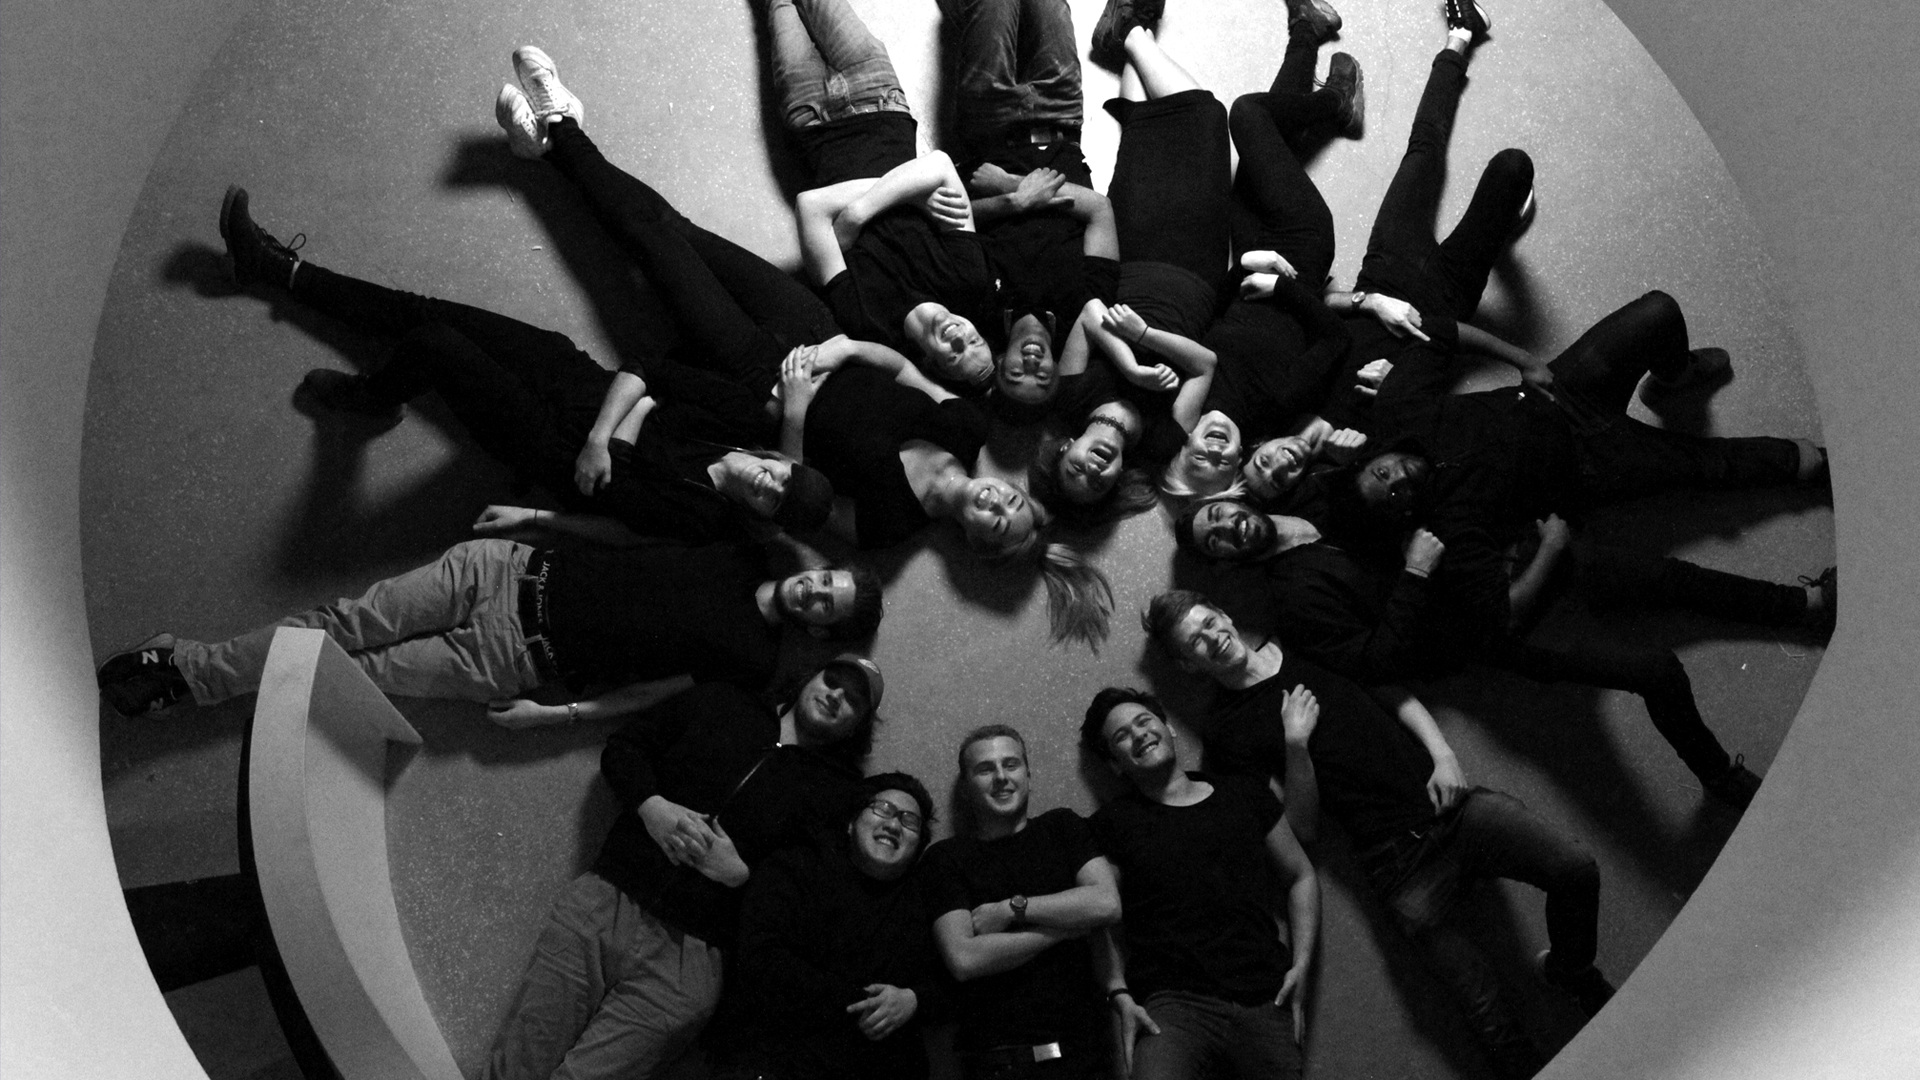
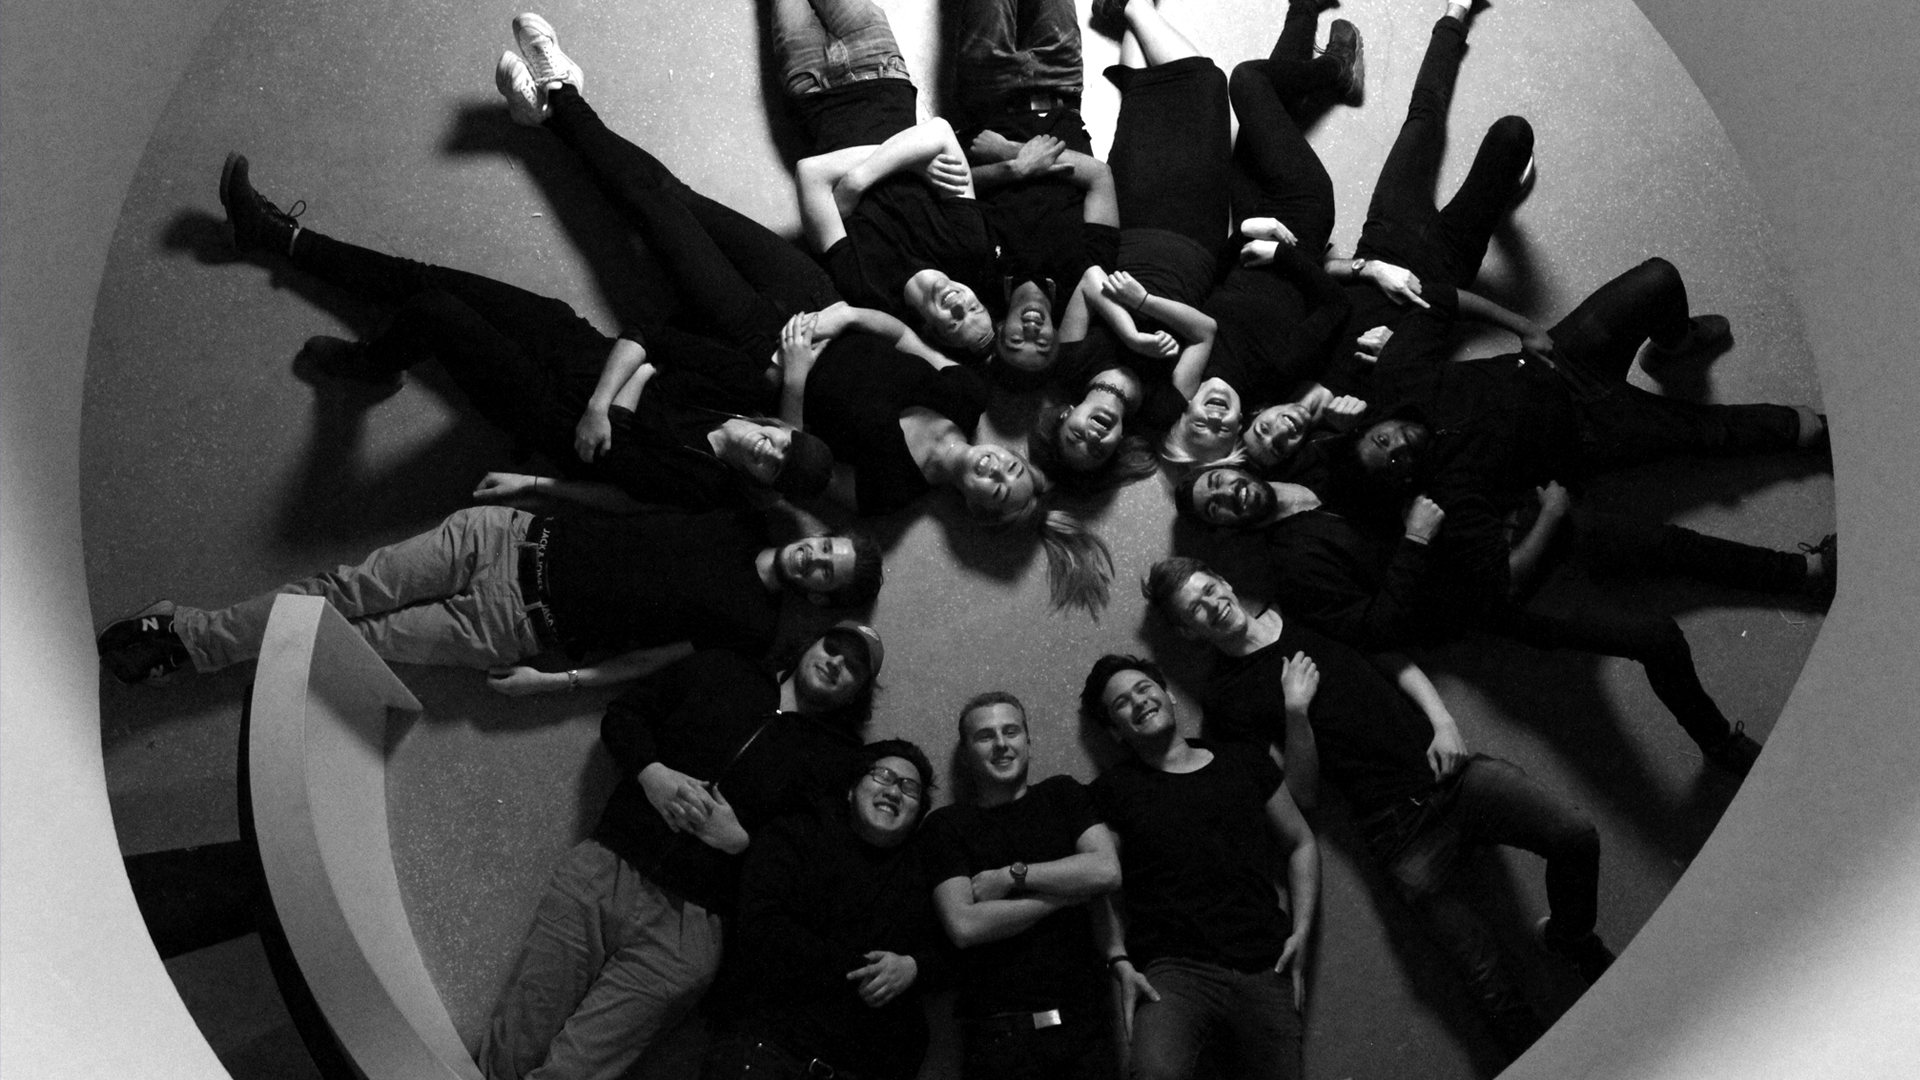
Fix header

diff --git a/public/css/common.min.css b/public/css/common.min.css
@@ -1,2 +1,2 @@
-html{min-height:100%;position:relative}body{margin-bottom:270px}@media (max-width:991px){body{margin-bottom:0}}body.navbar-padding{padding-top:50px}.page-container.container{padding-top:30px;padding-bottom:30px}.platoon-brandify,nav.navbar-site .navbar-nav>li.active>a:hover{color:#fff}.platoon-brandify .c{color:orange;font-style:normal}.platoon-brandify .p{font-style:normal;color:green}li.no-style,ul.no-style{list-style:none;padding-left:0}.btn-primary{border:1px solid #337ab7;color:#337ab7;background-color:transparent}.btn-primary:hover{color:#fff;background-color:#337ab7}.btn-primary:focus{outline:none!important}.btn-danger,.btn-primary[disabled]{background-color:transparent}.btn-danger{border:1px solid #d43f3a;color:#d43f3a}.btn-danger:hover{color:#fff;background-color:#d43f3a}.btn-danger:focus{outline:none!important}.btn-danger[disabled]{background-color:transparent}footer.footer-site{width:100%;position:absolute;bottom:0}@media (max-width:991px){footer.footer-site{position:relative}}.footer-site{color:#8c8c8c;background-color:#333;font-weight:300}.footer-site .container{padding:10px 20px;background-color:#333}.footer-site h4{font-weight:inherit}.footer-site a{color:gray;transition:color .1s}.footer-site a:hover{color:#206ad2;text-decoration:none}.footer-site ul.fa-ul{padding-left:-20px}.footer-site.footer-site-top{height:230px}.footer-site.footer-site-top .container{min-height:100%}@media (max-width:991px){.footer-site.footer-site-top{height:auto}}.footer-site.footer-site-copy{color:#666;text-align:center}.footer-site .container+hr,.footer-site.footer-site-copy p{margin:0}.footer-site hr+.container>.row{margin-top:5px;margin-bottom:5px}header.site-header{background:url(/img/header/yt-dj.jpg) center no-repeat;background-size:cover;height:500px}@media (max-width:767px){header.site-header{height:200px}}nav.navbar-site{background:#333;transition:background .2s}nav.navbar-site .navbar-toggle{border:1px solid rgba(255,255,255,.5)}nav.navbar-site .navbar-toggle .icon-bar{background:rgba(255,255,255,.5)}nav.navbar-site .navbar-brand img{height:40px;margin-top:-10px}nav.navbar-site .navbar-nav>li img{height:19px;vertical-align:top}nav.navbar-site .navbar-nav>li.active{background:#404040}nav.navbar-site .navbar-nav>li>a{color:#fff;transition:color .1s}nav.navbar-site .navbar-nav>li>a:hover{color:#206ad2;background:0 0}nav.navbar-site .navbar-nav>li>a:link,nav.navbar-site.navbar-site-scrolled{background:0 0}.platoon-rating-container{height:100px}.platoon-rating-container .platoon-rating .stars{color:gold}.platoon-rating-container .platoon-rating .stars .faded{color:rgba(255,215,0,.4)}.page-index-mvp h4,.site-about-member p,.site-about-prospect p{margin-bottom:0}.site-about-member h3,.site-about-prospect h3{margin:0 0 5px}.site-about-member .info,.site-about-prospect .info{margin-bottom:10px}.site-about-prospect img{width:100%}.site-about-member img{width:150px}@media (max-width:767px){.site-about-member img{width:80px}.site-about-member h3,.site-about-prospect h3{font-size:1em}.site-about-member .info,.site-about-prospect .info{font-size:.8em;margin-bottom:0}}.page-members h3{margin-top:0;margin-bottom:10px}.top-buffer{margin-top:40px}.input-group.time .input-group-addon{cursor:pointer}.panel-faq{transition:box-shadow .3s}a .panel-faq{color:#000}.panel-faq:hover{box-shadow:0 0 5px 0 rgba(0,0,0,.2)}.faq-link:hover{text-decoration:none}.ng-cloak,.x-ng-cloak,[data-ng-cloak],[ng-cloak],[ng\:cloak],[x-ng-cloak]{display:none!important}
+html{min-height:100%;position:relative}body{margin-bottom:270px}@media (max-width:991px){body{margin-bottom:0}}body.navbar-padding{padding-top:50px}.page-container.container{padding-top:30px;padding-bottom:30px}.platoon-brandify,nav.navbar-site .navbar-nav>li.active>a:hover{color:#fff}.platoon-brandify .c{color:orange;font-style:normal}.platoon-brandify .p{font-style:normal;color:green}li.no-style,ul.no-style{list-style:none;padding-left:0}.btn-primary{border:1px solid #337ab7;color:#337ab7;background-color:transparent}.btn-primary:hover{color:#fff;background-color:#337ab7}.btn-primary:focus{outline:none!important}.btn-danger,.btn-primary[disabled]{background-color:transparent}.btn-danger{border:1px solid #d43f3a;color:#d43f3a}.btn-danger:hover{color:#fff;background-color:#d43f3a}.btn-danger:focus{outline:none!important}.btn-danger[disabled]{background-color:transparent}footer.footer-site{width:100%;position:absolute;bottom:0}@media (max-width:991px){footer.footer-site{position:relative}}.footer-site{color:#8c8c8c;background-color:#333;font-weight:300}.footer-site .container{padding:10px 20px;background-color:#333}.footer-site h4{font-weight:inherit}.footer-site a{color:gray;transition:color .1s}.footer-site a:hover{color:#206ad2;text-decoration:none}.footer-site ul.fa-ul{padding-left:-20px}.footer-site.footer-site-top{height:230px}.footer-site.footer-site-top .container{min-height:100%}@media (max-width:991px){.footer-site.footer-site-top{height:auto}}.footer-site.footer-site-copy{color:#666;text-align:center}.footer-site .container+hr,.footer-site.footer-site-copy p{margin:0}.footer-site hr+.container>.row{margin-top:5px;margin-bottom:5px}header.site-header{background:url(/img/header/yt-dj-2.jpg) center no-repeat;background-size:cover;height:500px}@media (max-width:767px){header.site-header{height:200px}}nav.navbar-site{background:#333;transition:background .2s}nav.navbar-site .navbar-toggle{border:1px solid rgba(255,255,255,.5)}nav.navbar-site .navbar-toggle .icon-bar{background:rgba(255,255,255,.5)}nav.navbar-site .navbar-brand img{height:40px;margin-top:-10px}nav.navbar-site .navbar-nav>li img{height:19px;vertical-align:top}nav.navbar-site .navbar-nav>li.active{background:#404040}nav.navbar-site .navbar-nav>li>a{color:#fff;transition:color .1s}nav.navbar-site .navbar-nav>li>a:hover{color:#206ad2;background:0 0}nav.navbar-site .navbar-nav>li>a:link,nav.navbar-site.navbar-site-scrolled{background:0 0}.platoon-rating-container{height:100px}.platoon-rating-container .platoon-rating .stars{color:gold}.platoon-rating-container .platoon-rating .stars .faded{color:rgba(255,215,0,.4)}.page-index-mvp h4,.site-about-member p,.site-about-prospect p{margin-bottom:0}.site-about-member h3,.site-about-prospect h3{margin:0 0 5px}.site-about-member .info,.site-about-prospect .info{margin-bottom:10px}.site-about-prospect img{width:100%}.site-about-member img{width:150px}@media (max-width:767px){.site-about-member img{width:80px}.site-about-member h3,.site-about-prospect h3{font-size:1em}.site-about-member .info,.site-about-prospect .info{font-size:.8em;margin-bottom:0}}.page-members h3{margin-top:0;margin-bottom:10px}.top-buffer{margin-top:40px}.input-group.time .input-group-addon{cursor:pointer}.panel-faq{transition:box-shadow .3s}a .panel-faq{color:#000}.panel-faq:hover{box-shadow:0 0 5px 0 rgba(0,0,0,.2)}.faq-link:hover{text-decoration:none}.ng-cloak,.x-ng-cloak,[data-ng-cloak],[ng-cloak],[ng\:cloak],[x-ng-cloak]{display:none!important}
 /*# sourceMappingURL=common.css.map */

diff --git a/public/css/common.css b/public/css/common.css
@@ -94,7 +94,7 @@ footer.footer-site {
     margin-bottom: 5px; }
 
 header.site-header {
-  background: url("/img/header/yt-dj.jpg") center no-repeat;
+  background: url("/img/header/yt-dj-2.jpg") center no-repeat;
   background-size: cover;
   height: 500px; }
 
